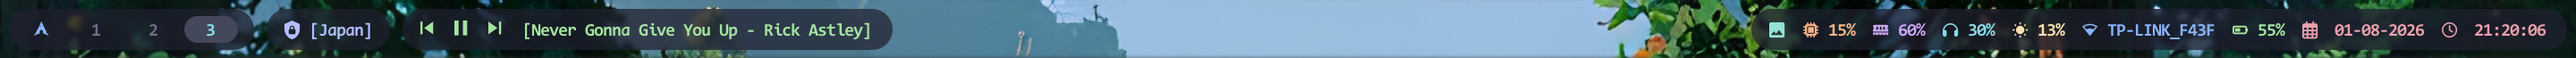
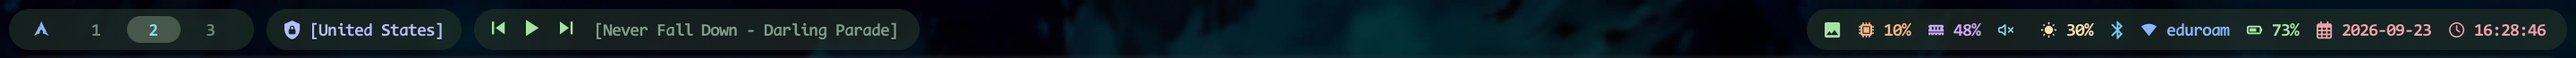
Set the wallpaper before the waybar reload so clicks survive a theme switch
Right-clicking the bar's wallpaper icon switched the theme but never
changed the wallpaper: apply() ends in a SIGUSR2 waybar reload, waybar
kills a click command's process group when its modules are torn down,
and the wallpaper was set after the apply. Reorder switch_to and `theme
wallpaper` to set the wallpaper (and nudge the cycler) first, moving the
cycler nudge out of wallpaper-select.sh into `theme wallpaper` since it
ran after the reload too.

Also retake the waybar preview screenshot so it shows the bluetooth icon.

diff --git a/README.md b/README.md
@@ -50,8 +50,9 @@ wallpaper folder of the same name. Switching:
 
 - **waybar wallpaper icon** — click opens the picker (current theme's
   wallpapers first, then the others tagged `· <theme>`; picking one of those
-  switches theme); right-click goes to the next theme. The icon is tinted with
-  the accent and its tooltip names the theme.
+  switches theme); right-click switches to the next theme with a random
+  wallpaper from it. The icon is tinted with the accent and its tooltip names
+  the theme.
 - **terminal** — `theme set blue`, `theme next`, `theme` (prints the current
   one), `theme --help` for the rest.
 
